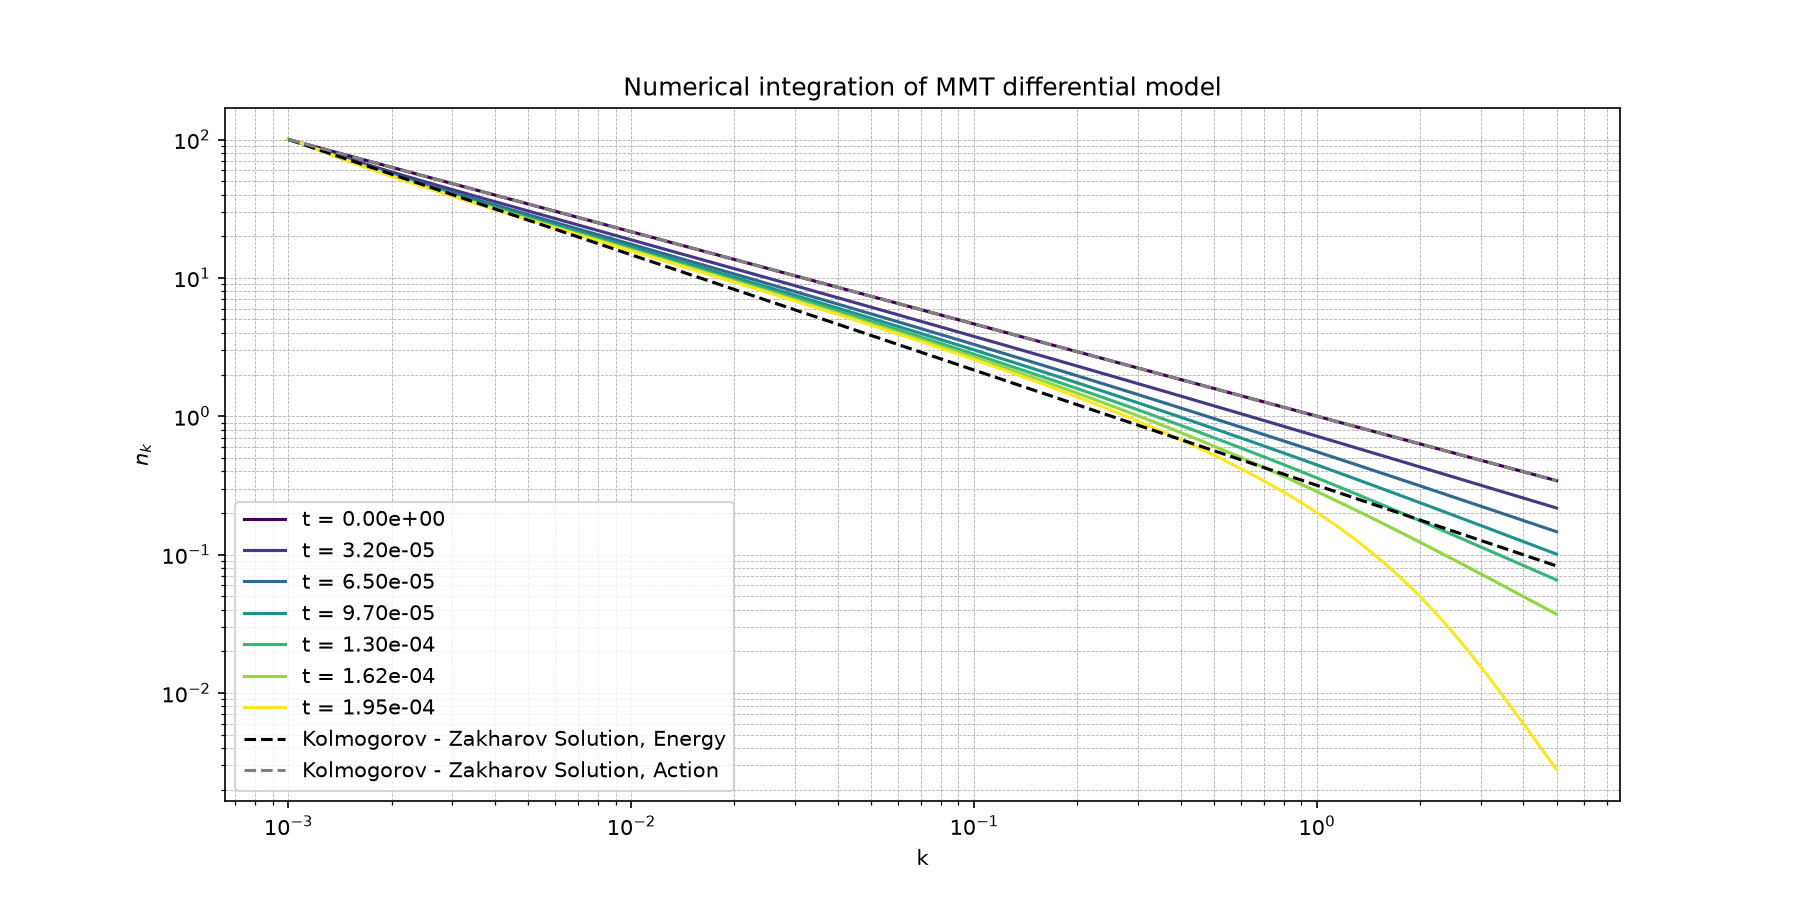
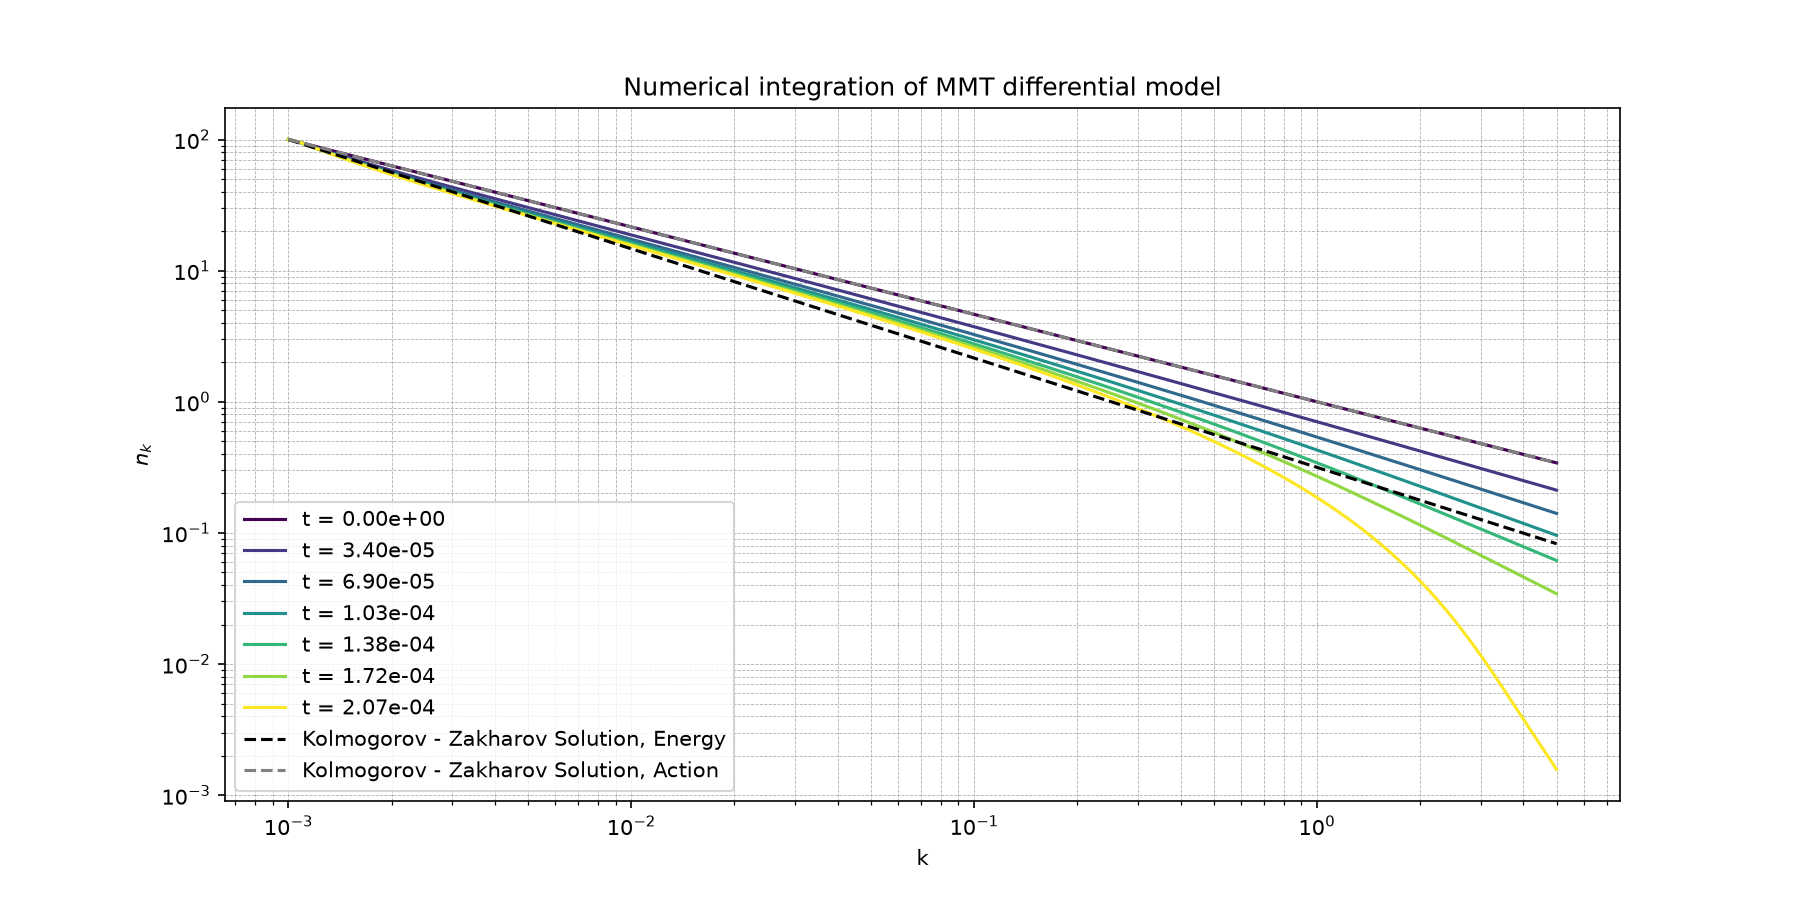
Update boundary condition arguments in integration and modify output image

diff --git a/main_DAM.py b/main_DAM.py
@@ -27,7 +27,7 @@ print("************************* Starting the simulation ***********************
 ts, ns = integrate_chunked(
     rhs, n_k, (0.0, 1.0), dt_chunk=1e-6,
     apply_bc_func=apply_bc,
-    bc_args=(k, n_left_fix, 6, 6, 4),
+    bc_args=(k, n_left_fix, 6, 20, 4),
     rhs_args=(k, n_left_fix, dlnk, eta1, eta2),
     rtol=1e-6, atol=1e-10
 )
